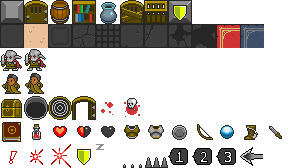
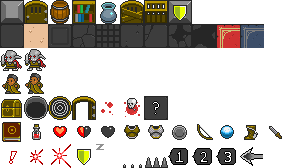
I don't remember what I did before I started cooking.

Changed region(s): [[0.5, 0.5655, 0.5938, 0.7143]]

diff --git a/game.py b/game.py
@@ -29,6 +29,7 @@ class Game:
         self.maxCooldown = 200
         self.waitForDialogue = False
         self.graphicsCD = 0
+        self.currentTrap = None
 
         self.currentCellContents = []
         self.DEBUGGING = False
@@ -169,6 +170,15 @@ class Game:
             return False
 
         playerTurn = False
+        if self.waitForDialogue:
+            self.Cooldown = time() + 4*self.maxCooldown
+            if not self.currentTrap is None:
+                sprung = self.currentTrap.Spring(self.player, self.map)
+                if not sprung:
+                    self.map.removeEntity(self.currentTrap)
+                    self.currentTrap = None
+                    self.waitForDialogue = False
+
 
         self.handleControls()
         if self.direction == False:
@@ -194,7 +204,9 @@ class Game:
                 for entity in self.currentCellContents:
                     if entity.type == "Trap":
                         self.waitForDialogue = entity.requires_dialogue
+                        self.currentTrap = entity
                         if self.waitForDialogue:
+                            self.Cooldown = time() + 4*self.maxCooldown
                             pass
                 # Player moved successfully, entity target check for player
                 for entity in self.map.contents:
@@ -294,7 +306,7 @@ class Game:
             self.graphics_updates = False
             self.bg_image = self.getBackgroundImage(self.player.position)
             self.fg_image = self.getForegroundImage(self.player.position)
-            self.gg_image = self.getGUIImage(None)
+            self.gg_image = self.getGUIImage()
 
         ret = pygame.Surface((self.size[0], self.size[1]))
         ret.blit(self.bg_image, (0, 0))
@@ -303,7 +315,7 @@ class Game:
         
         return ret
 
-    def getGUIImage(self, options):
+    def getGUIImage(self):
         gg = pygame.Surface((self.size[0], self.size[1]), pygame.SRCALPHA, 32)
         gfinal = pygame.Surface((self.size[0], self.size[1]), pygame.SRCALPHA, 32)
         gi = pygame.Surface((self.size[0], self.size[1]), pygame.SRCALPHA, 32)
@@ -316,9 +328,10 @@ class Game:
         trap_list = []
         for content in self.currentCellContents:
             if content.type == "Trap":
+                if content.current is None:
+                    continue
                 revealed = True
-                trap_list.append(content.current)
-                print("Trapped!")
+                trap_list.append(content)
             elif content.type == "Item":
                 revealed = True
                 item_list.append(content.index) # Add item to the list
@@ -435,12 +448,32 @@ class Game:
                     pos = (x*self.sprites.cellSize[0] + offset_x,(y*self.sprites.cellSize[1] + offset_y))
                     gg.blit(panelBG, pos)
            
-            # Bottom panel FG
-            # TODO Add various messages and only draw this if one is available (passed through the 'options' param)
             cursor = 0
             if len(trap_list) > 0:
-                pass
-                # TODO: Trap first
+                n = 1
+                if trap_list[0].trap == "Spikes":
+                    n = 1
+                elif trap_list[0].trap == "Hole":
+                    n = 4
+                elif trap_list[0].trap == "Portal":
+                    n = 3
+                w = (w -  n*self.sprites.cellSize[0]) /2
+                pos = [w + cursor + offset_x + self.sprites.cellSize[0], (h + self.sprites.cellSize[1])/2 + offset_y] # First telement
+                if trap_list[0].trap == "Spikes":
+                    gi.blit(self.sprites.getImage(3, 0), pos) # Player
+                    if trap_list[0].current[1] == 6:
+                        gi.blit(self.sprites.getImage(6, 2), pos)
+                    gi.blit(self.sprites.getImage(6, trap_list[0].current[1]), pos)
+                elif trap_list[0].trap == "Hole":
+                   # gi.blit
+                    n = 4
+                elif trap_list[0].trap == "Portal":
+                    gi.blit(self.sprites.getImage(6, trap_list[0].current[1]), pos)
+                    gi.blit(self.sprites.getImage(3, 0), pos) # Player
+                    pos[0] += self.sprites.cellSize[0]
+                    gi.blit(self.sprites.getImage(6, 10.2), pos) # Arrow
+                    pos[0] += self.sprites.cellSize[0]
+                    gi.blit(self.sprites.getImage(4, 6), pos) # Question
             elif len(item_list) > 0: # Items
                 w = (w -  len(item_list)*self.sprites.cellSize[0]) /2
                 for i in range(len(item_list)):

diff --git a/entity.py b/entity.py
@@ -115,24 +115,33 @@ class Trap(Entity):
         self.damage = TRAPS[trap][2]
         self.current = TRAPS[trap][0]
         self.post_image = TRAPS[trap][1]
-        self.requires_dialogue = TRAPS[trap][3]
+        self.requires_dialogue = True
         self.sprung = False
+        self._target = None
     
-    def Spring(self, entity):
-        entity.health -= damage
-        self.current = self.post_Image
-        if self.trap == "Spikes":
-            self.post_image = None
-            self.damage = 0
+    def Spring(self, entity, _map):
+        if self.trap == "Hole":
+            return True
+        if not self.sprung:
+            entity.dealDamage(self.damage)
+            self.current = self.post_image
+            self.sprung = self.post_image is None
+            if self.trap == "Spikes":
+                self.post_image = None
+                self.damage = 0
+            elif self.trap == "Portal":
+                _map.teleportEntity(entity, self._target)
+                _map.revealCellsFromEntity(entity)
+            return True
         return False
 
 
 
 # [First image id], [Second image id], [Damage dealt], [Dialogue]
 TRAPS = {
-    "Spikes":   [ [6, 5],   [6, 6], 1,  False],
-    "Hole":     [ [4, 1],   None,   0,  True],
-    "Portal":   [ [4, 2],   None,   0,  True]
+    "Spikes":   [ [6, 5],   [6, 6], 1],
+    "Hole":     [ [4, 1],   None,   0],
+    "Portal":   [ [4, 2],   None,   0]
 }
 DEFAULT_MONSTER = Monster()
 DEFAULT_MONSTER.health = 5

diff --git a/map.py b/map.py
@@ -203,6 +203,11 @@ class Map:
                 newcell.contents.append(target)
                 target.position = [nx, ny]
                 return True
+            
+    def teleportEntity(self, entity, loc):
+        self.removeEntity(entity)
+        entity.position = loc
+        self.addEntity(entity)
 
 
     # Turns a wall chart into a cell map
@@ -602,6 +607,11 @@ class Map:
                             # Traps
                             trap = entity.Trap(random.choice(list(entity.TRAPS.keys())))
                             trap.position = [x, y]
+                            if trap.trap == "Portal":
+                                while trap._target is None:
+                                    _tempX, _tempY = [random.randrange(len(self.cells)), random.randrange(len(self.cells[0]))]
+                                    if not self.cells[_tempX][_tempY].wall:
+                                        trap._target = [_tempX, _tempY]
                             self.addEntity(trap)
 
 
